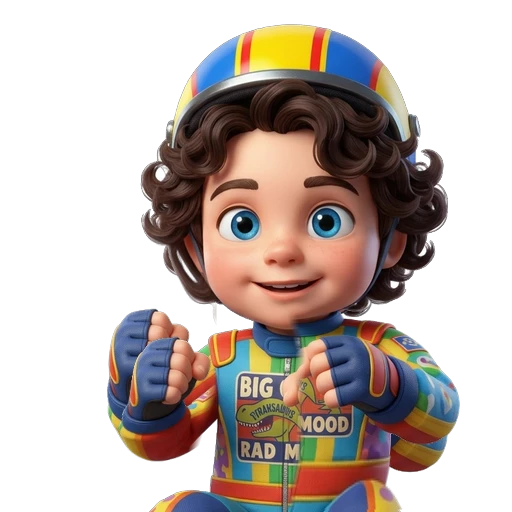
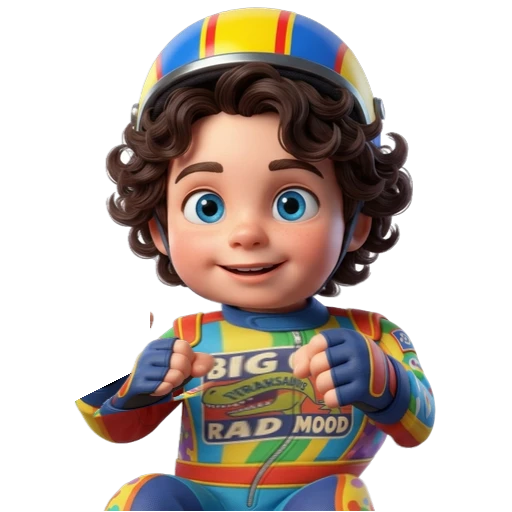
Pilotes centrés par mesure : axe du casque sur l'axe du kart, cartes recadrées pareil pour tous
- volant_pilotes.py : axe et largeur du casque mesurés sur l'alpha ; chaque dessin est recadré
  (casque sur x = 256, haut du casque à 8 px, largeur de casque harmonisée, échelle bornée
  0,95-1,08) puis les poings sont amenés sur l'anneau sans coupure (bras glissé vers l'intérieur
  avec limite bras/buste en biais, déformation douce vers l'extérieur)
- maman et harry centrés sur la tête, plus de décalages réglés à l'œil
- portraits des menus : même cadrage et même volant pour tous, bas fondu
- vitrine : chaque kart regarde exactement la caméra, le pilote reste face caméra et centré
- karts fusée, dino, licorne, pompiers : décors du capot rapetissés sur place pour voir volant
  et mains de face

diff --git a/src/karts.js b/src/karts.js
@@ -162,9 +162,99 @@ function preparerThemes(racine) {
         o.material = matTheme("phong" + hex, () => new THREE.MeshPhongMaterial({ color: hex, shininess: 70, specular: 0x333333 }));
       }
     });
+    if (ORNEMENTS[type]) reduireOrnements(t, ORNEMENTS[type]);
     themes.set(type, t);
   }
   return themes;
+}
+
+// Décors posés sur le capot, devant le volant (nez de fusée, tête de dino ou de licorne) : en vue
+// de face, ils cachaient le volant et les mains du pilote. Ils sont rapetissés sur place (même
+// forme, posés au même endroit) pour ne pas dépasser `haut` (m) ; jamais moins que `mini`.
+const ORNEMENTS = {
+  fusee: { haut: 0.86, mini: 0.55 },
+  dino: { haut: 0.92, mini: 0.5 },
+  licorne: { haut: 0.92, mini: 0.5 },
+  // gyrophares posés sur le capot : chacun rapetissé sur place
+  pompier: { haut: 0.8, mini: 0.5, parIlot: true },
+};
+
+/** Îlots de triangles (sommets soudés par position) d'un maillage, en repère du kart. */
+function ilots(geo, matrice) {
+  const pos = geo.attributes.position;
+  const n = pos.count;
+  const parent = new Int32Array(n).map((_, i) => i);
+  const racine = (i) => {
+    while (parent[i] !== i) i = parent[i] = parent[parent[i]];
+    return i;
+  };
+  const unir = (a, b) => {
+    a = racine(a);
+    b = racine(b);
+    if (a !== b) parent[a] = b;
+  };
+  const vus = new Map();
+  for (let i = 0; i < n; i++) {
+    const cle = `${pos.getX(i).toFixed(4)},${pos.getY(i).toFixed(4)},${pos.getZ(i).toFixed(4)}`;
+    if (vus.has(cle)) unir(i, vus.get(cle));
+    else vus.set(cle, i);
+  }
+  const idx = geo.index;
+  const nTri = idx ? idx.count : n;
+  for (let k = 0; k < nTri; k += 3) {
+    const a = idx ? idx.getX(k) : k;
+    unir(a, idx ? idx.getX(k + 1) : k + 1);
+    unir(a, idx ? idx.getX(k + 2) : k + 2);
+  }
+  const groupes = new Map();
+  const v = new THREE.Vector3();
+  for (let i = 0; i < n; i++) {
+    const r = racine(i);
+    if (!groupes.has(r)) groupes.set(r, { sommets: [], boite: new THREE.Box3() });
+    const g = groupes.get(r);
+    g.sommets.push(i);
+    g.boite.expandByPoint(v.fromBufferAttribute(pos, i).applyMatrix4(matrice));
+  }
+  return [...groupes.values()];
+}
+
+function reduireOrnements(theme, { haut, mini, parIlot = false }) {
+  // repère du kart = repère de la scène du fichier (le thème y est posé avec sa propre position)
+  theme.updateWorldMatrix(true, true);
+  const choisis = [];
+  const boite = new THREE.Box3();
+  theme.traverse((o) => {
+    if (!o.isMesh || o.name.startsWith("anim_") || o.parent?.name.startsWith("anim_")) return;
+    const m = o.matrixWorld.clone();
+    for (const il of ilots(o.geometry, m)) {
+      const b = il.boite;
+      // entièrement devant le volant, près de l'axe, et dépassant du capot
+      if (b.min.z > 0.2 && b.min.x > -0.7 && b.max.x < 0.7 && b.max.y > haut) {
+        choisis.push({ o, m, sommets: il.sommets, boite: b });
+        boite.union(b);
+      }
+    }
+  });
+  if (!choisis.length) return;
+  let s = Math.max(mini, Math.min(1, (haut - boite.min.y) / (boite.max.y - boite.min.y)));
+  const pivot = new THREE.Vector3((boite.min.x + boite.max.x) / 2, boite.min.y, (boite.min.z + boite.max.z) / 2);
+  const v = new THREE.Vector3();
+  for (const { o, m, sommets, boite: bi } of choisis) {
+    if (parIlot) {
+      s = Math.max(mini, Math.min(1, (haut - bi.min.y) / (bi.max.y - bi.min.y)));
+      pivot.set((bi.min.x + bi.max.x) / 2, bi.min.y, (bi.min.z + bi.max.z) / 2);
+    }
+    const inv = m.clone().invert();
+    const pos = o.geometry.attributes.position;
+    for (const i of sommets) {
+      v.fromBufferAttribute(pos, i).applyMatrix4(m).sub(pivot).multiplyScalar(s).add(pivot).applyMatrix4(inv);
+      pos.setXYZ(i, v.x, v.y, v.z);
+    }
+    pos.needsUpdate = true;
+    o.geometry.computeBoundingSphere();
+    o.geometry.computeBoundingBox();
+  }
+  if (import.meta.env.DEV) console.info("ornements réduits", theme.name, choisis.length, "îlots, échelle", s.toFixed(2));
 }
 
 const horloge = () => performance.now() / 1000;

diff --git a/src/vitrine.js b/src/vitrine.js
@@ -139,13 +139,18 @@ export class Vitrine {
       const k = o.kart;
       for (const r of [...k.roues.avant, ...k.roues.arriere]) r.tourne.rotation.x += dt * 2;
       k.corps.position.y = Math.abs(Math.sin(this.t * 6 + k.groupe.position.x)) * 0.03;
+      // chaque kart regarde exactement la caméra (même ceux des bouts) : pilote, volant et kart
+      // ont alors le même axe à l'écran, et le panneau reste perpendiculaire à la vue
+      const base = o.parent === this.plateau ? this.plateau.rotation.y : 0;
+      k.groupe.getWorldPosition(vPos);
+      k.groupe.rotation.y = Math.atan2(c.position.x - vPos.x, c.position.z - vPos.z) - base;
       k.groupe.updateMatrixWorld();
-      const yaw = k.groupe.rotation.y + (o.parent === this.plateau ? this.plateau.rotation.y : 0);
-      o.pilote.orienter(c, yaw, yaw, 1); // panneau exactement face à la caméra
+      o.pilote.orienter(c, k.groupe.rotation.y + base, null, 1); // panneau exactement face à la caméra
     }
   }
 }
 
+const vPos = new THREE.Vector3();
 const ECART_TITRE = 2.7; // mètres entre deux karts de l'accueil
 
 /** Recul de la caméra pour que la demi-largeur voulue tienne dans l'écran (jamais sous "mini"). */

diff --git a/outils/blender/volant_pilotes.py b/outils/blender/volant_pilotes.py
@@ -9,7 +9,8 @@
 #    d'origine du « Cartoonish Go-Kart »). karts.js le pose devant le baquet, penché, la colonne
 #    descend jusque sous le capot ; le nœud "volant" tourne quand on braque.
 # 2) Pour chaque personnage (dessins d'origine <nom>_face.png / <nom>_dos.png) :
-#    - le dessin est recadré pour que le milieu des poings soit au centre (256, 372) ;
+#    - recadrage mesuré, identique pour tous : axe du casque (mesuré sur l'alpha) sur x = 256,
+#      haut du casque à 8 px, casque de même largeur (215 px) ;
 #    - chaque poing (avec l'avant-bras) est déplacé jusqu'à l'anneau : (168, 372) et (344, 372),
 #      soit ±0,275 m sur le panneau de 1,6 m. Seul le bras bouge (calque glissé, avant-bras
 #      étiré en douceur jusqu'au coude) : visages et combinaisons restent intacts ;
@@ -307,25 +308,46 @@ def rampe(y, a, b):
 
 
 def deplacer_poing(img, P, T, R):
-    """Glisse le poing P (et le bras qui le porte) jusqu'à T, par-dessus le reste du dessin.
-    Tout ce qui est du côté extérieur du poing, de l'épaule au coude, suit le poing ; le
-    déplacement s'estompe vers le coude (l'avant-bras s'incline) et vers le haut."""
+    """Amène le poing P en T sans trou ni coupure dans le dessin.
+    - Vers l'extérieur : simple déformation douce (la manche s'étire, le buste à côté du poing
+      suit un peu), rien n'est découpé.
+    - Vers l'intérieur : le bras glisse comme un calque par-dessus le buste ; du côté extérieur, le
+      déplacement s'estompe jusqu'au bord de la manche (elle se resserre), sans bord coupé.
+    Verticalement, le déplacement s'estompe au-dessus du poing et jusqu'au coude."""
     s = -1 if P[0] < TAILLE / 2 else 1  # côté gauche / droit du dessin
     dx, dy = T[0] - P[0], T[1] - P[1]
     h0, h1 = P[1] - R * 1.1 - 70, P[1] - R * 1.1  # rampe au-dessus du poing (le poing bouge d'un bloc)
     b0, b1 = P[1] + R, P[1] + R + 90  # rampe jusqu'au coude
     t = rampe(YY, h0, h1) * (1 - rampe(YY, b0, b1))
-    xb = P[0] - s * (R + 8)  # coupe : bord intérieur du poing
+    # distance (vers l'extérieur du dessin) à la position d'ARRIVÉE du poing : la déformation est
+    # lue depuis l'image finale (pour chaque pixel final, on va chercher son pixel d'origine)
+    o = (XX - T[0]) * s
+    exterieur = 1 - rampe(o, R, R + abs(dx) + 60)
+    vers_dehors = dx * s
+    pm = premult(img)
+    if vers_dehors > 0:
+        interieur = rampe(o, -R - max(40, 2.5 * vers_dehors), -R)
+        k = t * exterieur * interieur
+        return depremult(echantillonner(pm, XX - dx * k, YY - dy * k))
+    # côté extérieur : la manche suit le poing puis le déplacement s'estompe en douceur (bord du
+    # bras décalé sans coupure ni étirement baveux, jamais replié sur lui-même)
+    exterieur = 1 - rampe(o, R, R + abs(dx) + 120)
+    k = t * exterieur
+    sx, sy = XX - dx * k, YY - dy * k
+    # limite entre bras (qui glisse) et buste (qui reste) : bord intérieur du poing à sa hauteur,
+    # puis elle s'écarte en biais au-dessus et au-dessous (épaule, coude et hanche restent en place,
+    # pas de bord vertical tranché dans le buste)
+    def xb(y):
+        return P[0] - s * (R + 8) + s * 2 * np.maximum(0, np.abs(y - P[1]) - R)
 
     def zone(x, y):
-        cote = np.clip((x - xb) * s / 10 + 0.5, 0, 1)
+        cote = np.clip((x - xb(y)) * s / 10 + 0.5, 0, 1)
         return cote * ((y > h0) & (y < b1))
 
-    sx, sy = XX - dx * t, YY - dy * t
-    L = echantillonner(premult(img), sx, sy) * zone(sx, sy)[..., None]
+    L = echantillonner(pm, sx, sy) * zone(sx, sy)[..., None]
     W = zone(XX, YY)
     a = img[..., 3]
-    aB = a * (1 - W) / np.maximum(1 - a * W, 1e-6)  # recompose l'original là où rien ne bouge
+    aB = a * (1 - W) / np.maximum(1 - a * W, 1e-6)  # l'original là où rien ne bouge
     B = np.concatenate([img[..., :3] * aB[..., None], aB[..., None]], -1)
     return depremult(L + B * (1 - L[..., 3:4]))
 
@@ -366,45 +388,74 @@ def sur(haut, bas):
     return np.concatenate([rgb, a], -1)
 
 
-# Décalage horizontal du dessin de face (pixels) : le buste reste au milieu du baquet autant que
-# possible ; il ne compense que les poses penchées (harry tend le bras gauche, maman vise à droite).
-DECALAGE_FACE = {"viggo": -10, "harry": 30, "maman": -20, "bryan": 0, "mamy": 0}
+# Recadrage mesuré (le même pour tous les dessins) : le casque sert de repère, car il ne dépend ni
+# de la pose des bras (harry tend un bras) ni des cheveux (boucles de maman, plus bas).
+LARGEUR_CASQUE = 199  # px, mesurée 50 px sous le haut du casque
+# Échelle bornée : bryan a un petit casque pour un grand buste ; l'agrandir davantage mettrait
+# ses poings trop bas sous le volant.
+ECHELLE_MIN, ECHELLE_MAX = 0.95, 1.08
+# Poses tournées : maman a le buste de trois quarts, ses poings sont loin à droite de sa tête.
+# Son axe est pris entre la tête et les mains (milieu du buste) ; les autres : axe du casque.
+POIDS_MAINS = {}
+HAUT_CASQUE = 8  # px
 # De dos, les mains sont naturellement cachées devant le buste : on rapproche seulement un peu
 # les poings levés sur les côtés (au plus 35 px, moins pour maman dont les boucles tombent sur
 # les bras), sans les faire passer sur le dos.
 MAX_DOS = {"viggo": 35, "harry": 25, "maman": 14, "bryan": 35, "mamy": 35}
 
 
-def preparer(nom, cote, oy=None):
+def mesurer_casque(img):
+    """(axe x, haut y, largeur) du casque : dôme = lignes 10 à 70 px sous le haut du dessin."""
+    a = img[..., 3] > 0.5
+    haut = int(np.where(a.any(1))[0][0])
+    milieux = []
+    for dy in range(10, 71, 4):
+        xs = np.where(a[haut + dy])[0]
+        milieux.append((xs[0] + xs[-1]) / 2)
+    xs = np.where(a[haut + 50])[0]
+    return float(np.mean(milieux)), haut, float(xs[-1] - xs[0])
+
+
+def normaliser(img, echelle, axe, haut):
+    """Mise à l'échelle autour du haut du casque, axe du casque sur x = 256, haut à HAUT_CASQUE."""
+    sx = axe + (XX - TAILLE / 2) / echelle
+    sy = haut + (YY - HAUT_CASQUE) / echelle
+    return depremult(echantillonner(premult(img), sx, sy))
+
+
+def preparer(nom, cote, echelle=None):
     """Recadre le dessin puis amène chaque poing sur l'anneau (de face) ou vers lui (de dos)."""
     img = lire(os.path.join(DOSSIER, f"{nom}_{cote}.png"))
-    poings = sorted(POINGS[nom][cote])
-    my = sum(p[1] for p in poings) / 2
-    ox = DECALAGE_FACE[nom] if cote == "face" else 0
-    if oy is None:
-        oy = round(CENTRE[1] - my)
-    avant = img = decaler(img, ox, oy)
-    for p, cible in zip(poings, CIBLES):
-        P = (p[0] + ox, p[1] + oy)
+    axe, haut, largeur = mesurer_casque(img)
+    if echelle is None:
+        echelle = min(ECHELLE_MAX, max(ECHELLE_MIN, LARGEUR_CASQUE / largeur))
+    if cote == "face":
+        milieu_mains = sum(p[0] for p in POINGS[nom]["face"]) / 2
+        axe += POIDS_MAINS.get(nom, 0) * (milieu_mains - axe)
+    else:
+        axe += POIDS_MAINS.get(nom, 0) * (sum(p[0] for p in POINGS[nom]["dos"]) / 2 - axe)
+    img = normaliser(img, echelle, axe, haut)
+    vers = lambda p: (TAILLE / 2 + (p[0] - axe) * echelle, HAUT_CASQUE + (p[1] - haut) * echelle)
+    poings = sorted(vers(p) for p in POINGS[nom][cote])
+    for P, cible in zip(poings, CIBLES):
         if cote == "dos":
             dx = max(-MAX_DOS[nom], min(MAX_DOS[nom], cible[0] - P[0]))
             cible = (P[0] + dx, P[1])  # de dos : même hauteur, rapprochement limité
         if math.dist(P, cible) <= 3:
             continue
-        vers_exterieur = (cible[0] - P[0]) * (P[0] - TAILLE / 2) > 0
-        img = deplacer_poing(img, P, cible, RAYON_POING[nom])
-        if vers_exterieur:
-            # poing écarté de quelques pixels : le dessin d'origine comble ce qu'il découvre
-            img = sur(img, avant)
-    print("PREPARE", nom, cote, "decalage", ox, oy)
-    return img, oy
+        img = deplacer_poing(img, P, cible, RAYON_POING[nom] * echelle)
+        if os.environ.get("DEBUG_POINGS"):
+            ecrire(img, os.path.join(DOSSIER, f"debug_{nom}_{cote}_{round(P[0])}.webp"))
+    print("PREPARE", nom, cote, "axe", round(axe, 1), "largeur", round(largeur), "echelle", round(echelle, 3),
+          "poings", [tuple(round(v) for v in p) for p in poings])
+    return img, echelle
 
 
 anneau = lire(tmp)
 for nom in POINGS:
-    face, oy = preparer(nom, "face")
-    # de dos : même hauteur que de face (la tête ne saute pas quand le pilote se retourne)
-    dos, _ = preparer(nom, "dos", oy)
+    face, echelle = preparer(nom, "face")
+    # de dos : même échelle et même haut de casque (la tête ne saute pas quand il se retourne)
+    dos, _ = preparer(nom, "dos", echelle)
     ecrire(face, os.path.join(DOSSIER, f"{nom}_face_assis.webp"))
     ecrire(dos, os.path.join(DOSSIER, f"{nom}_dos_assis.webp"))
 
@@ -423,4 +474,7 @@ for nom in POINGS:
     ombre = flou(decaler(v, 4, 9)[..., 3], 5) * 0.35 * (1 - mains)  # ombre douce sur la combinaison
     corps = face.copy()
     corps[..., :3] *= (1 - ombre * (face[..., 3] > 0))[..., None]
-    ecrire(sur(v, corps), os.path.join(DOSSIER, f"{nom}_face_volant.webp"))
+    portrait = sur(v, corps)
+    # bas du portrait fondu (sous le volant : hanches et bras retouchés, inutiles sur une carte)
+    portrait[..., 3] *= 1 - rampe(YY, 452, 505)
+    ecrire(portrait, os.path.join(DOSSIER, f"{nom}_face_volant.webp"))
